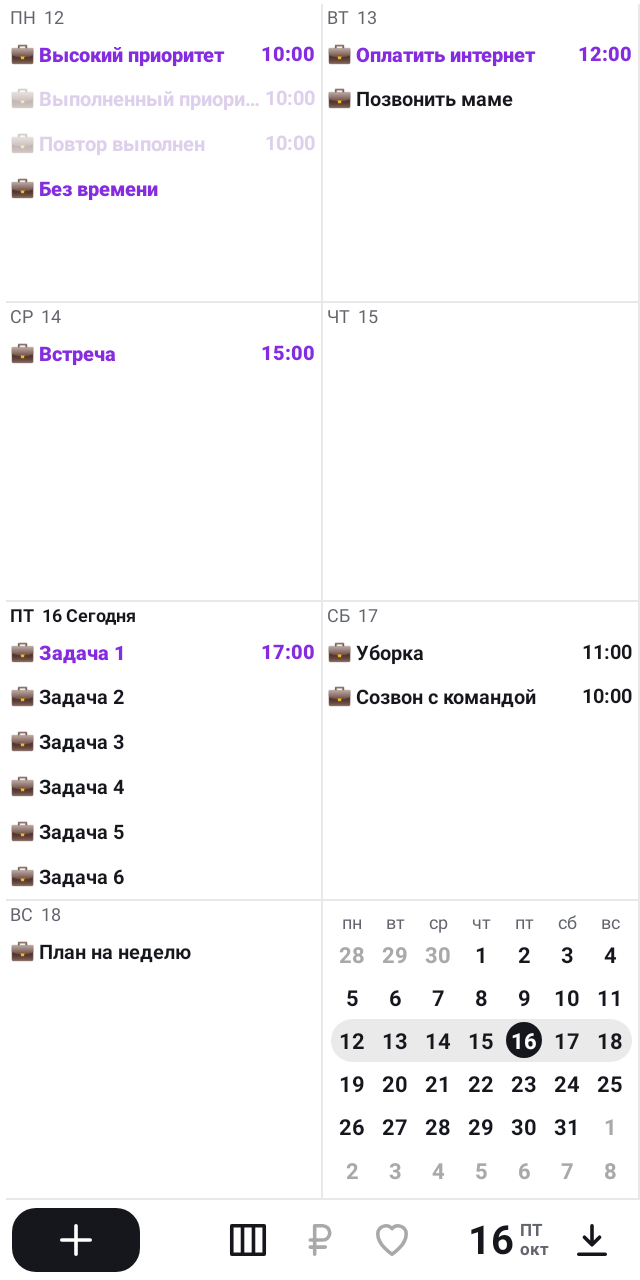
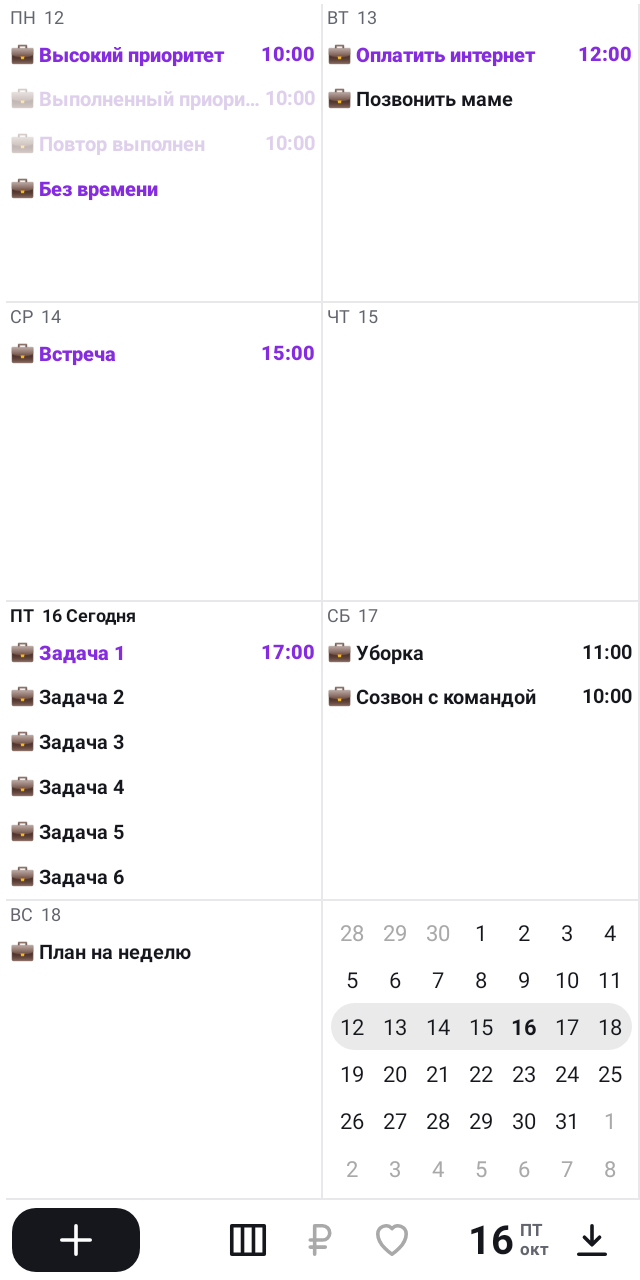
test: verify widget week picker and refresh previews (#284)

diff --git a/app/src/test/java/com/prostovasei/simpletasks/widget/WidgetWeekTest.kt b/app/src/test/java/com/prostovasei/simpletasks/widget/WidgetWeekTest.kt
@@ -1,6 +1,9 @@
 package com.prostovasei.simpletasks.widget
 
 import android.appwidget.AppWidgetManager
+import android.graphics.Typeface
+import android.text.Spanned
+import android.text.style.StyleSpan
 import android.view.View
 import android.view.ViewGroup
 import android.widget.TextView
@@ -166,7 +169,53 @@ class WidgetWeekTest {
         assertEquals("28", last.findViewById<TextView>(WeekIds.CAL_ROWS.first().days.first()).text.toString())
         assertEquals("8", last.findViewById<TextView>(WeekIds.CAL_ROWS.last().days.last()).text.toString())
         // Воскресенье 1 ноября — в левой ячейке последней строки.
-        assertTrue(last.visibleTexts().contains("вс"))
+        assertEquals("ВС", last.findViewById<TextView>(WeekIds.LEFT.weekday).text.toString())
+    }
+
+    private fun TextView.isBold() = (text as? Spanned)?.getSpans(0, text.length, StyleSpan::class.java)
+        ?.any { it.style == Typeface.BOLD } == true
+
+    @Test
+    fun calendarBandAndBoldDateMoveIndependentlyOnReapply() {
+        val root = renderWidget(context, rich, size).applyLikeLauncher(context)
+        fun verify(selected: Int, bold: String) {
+            val calendar = root.findViewById<ViewGroup>(R.id.wc_root)
+            assertEquals(6, calendar.childCount)
+            val dates = calendar.descendants().filterIsInstance<TextView>().toList()
+            assertEquals(42, dates.size)
+            assertTrue(dates.all { it.text.toString().toIntOrNull() != null })
+            assertEquals(listOf(bold), dates.filter { it.isBold() }.map { it.text.toString() })
+            assertTrue(dates.all { it.background == null && it.typeface?.isBold != true })
+            assertTrue(dates.first().currentTextColor != dates.first { it.text.toString() == bold && it.isBold() }.currentTextColor)
+            val rows = WeekIds.CAL_ROWS.map { calendar.findViewById<View>(it.row) }
+            assertTrue(rows.all { it.hasOnClickListeners() })
+            assertEquals(listOf(rows[selected]), rows.filter { it.background != null })
+        }
+        verify(selected = 4, bold = "30")
+        val previousWeek = week(start = monday.minusWeeks(1)) { emptyList() }
+        renderWidget(context, previousWeek, size).reapply(context, root)
+        verify(selected = 3, bold = "30")
+        val nextDay = today.plusDays(1)
+        val movedToday = previousWeek.copy(today = nextDay, week = previousWeek.week!!.copy(today = nextDay))
+        renderWidget(context, movedToday, size).reapply(context, root)
+        verify(selected = 3, bold = "31")
+    }
+
+    @Test
+    @Config(fontScale = 1.3f)
+    fun calendarDatesFitAtLargerFont() {
+        for (width in listOf(320f, 392f)) {
+            val root = renderWidget(context, rich, DpSize(width.dp, 640.dp)).applyLikeLauncher(context)
+            root.measure(View.MeasureSpec.makeMeasureSpec(px(width), View.MeasureSpec.EXACTLY),
+                View.MeasureSpec.makeMeasureSpec(px(640f), View.MeasureSpec.EXACTLY))
+            root.layout(0, 0, px(width), px(640f))
+            val calendar = root.findViewById<ViewGroup>(R.id.wc_root)
+            val dates = calendar.descendants().filterIsInstance<TextView>().toList()
+            assertEquals(42, dates.size)
+            assertTrue("Даты помещаются при ширине $width dp", dates.all { date ->
+                date.lineCount == 1 && date.layout.getLineEnd(0) == date.text.length && date.layout.height <= date.height
+            })
+        }
     }
 
     /**
@@ -202,8 +251,6 @@ class WidgetWeekTest {
     /** Проверка PM (0.46.0): сегодня — без кружка, день недели и число жирные; у остальных дней жирного нет. */
     @Test
     fun todayIsBoldWithoutACircle() {
-        fun TextView.isBold() = (text as? android.text.Spanned)?.getSpans(0, text.length, android.text.style.StyleSpan::class.java)
-            ?.any { it.style == android.graphics.Typeface.BOLD } == true
         val friday = list().rows()[2] // пятница 30 октября — сегодня
         val number = friday.findViewById<TextView>(WeekIds.LEFT.number)
         assertTrue(friday.findViewById<TextView>(WeekIds.LEFT.weekday).isBold())

diff --git a/app/src/test/java/com/prostovasei/simpletasks/widget/WidgetRendererTest.kt b/app/src/test/java/com/prostovasei/simpletasks/widget/WidgetRendererTest.kt
@@ -70,7 +70,9 @@ class WidgetRendererTest {
     fun financeModuleIsIndependentAndReturningKeepsTaskView() = runBlocking {
         val one = manager.createWidget(TasksWidgetReceiver::class.java, androidx.glance.appwidget.R.layout.glance_default_loading_layout)
         val two = manager.createWidget(TasksWidgetReceiver::class.java, androidx.glance.appwidget.R.layout.glance_default_loading_layout)
-        WidgetSelection.set(context, one, WidgetFilter.Inbox)
+        // Дождаться первой отрисовки, которая сохраняет исходный раздел нового виджета.
+        WidgetRenderer.render(context, one, "тест")
+        WidgetActionReceiver.handle(context, WidgetActions.switch(context, one, WidgetFilter.Inbox))
         WidgetActionReceiver.handle(context, WidgetActions.module(context, one, true))
         assertTrue(WidgetSelection.finance(context, one))
         assertTrue(!WidgetSelection.finance(context, two))

diff --git a/design/system/ds_more.py b/design/system/ds_more.py
@@ -917,9 +917,22 @@ def week_cell(wd, num, tasks, today=False, hidden=0, h=190, widget=False):
 
 def week_calendar(h=190, widget=False):
     """Мини-календарь (0.46.0): без строки месяца и стрелок — месяц листается выбором недели с днями соседнего месяца.
-    В виджете (итерация 48): даты 11, кружок «сегодня» 18."""
-    fs, today_d = (11, 18) if widget else (12, 22)
+    В виджете (итерация 48): даты 11, сегодня жирным (#284)."""
+    fs, today_d = 12, 22
     weeks = [[28, 29, 30, 1, 2, 3, 4], [5, 6, 7, 8, 9, 10, 11], [12, 13, 14, 15, 16, 17, 18], [19, 20, 21, 22, 23, 24, 25], [26, 27, 28, 29, 30, 31, 1], [2, 3, 4, 5, 6, 7, 8]]
+    if widget:
+        rows = []
+        for i, week in enumerate(weeks):
+            dates = []
+            for j, day in enumerate(week):
+                current = i == 4 and day == 30
+                adjacent = (i == 0 and j < 3) or i == 5 or (i == 4 and j == 6)
+                color = 'var(--inactive)' if adjacent and not current else 'var(--text-primary)'
+                dates.append(f'<span style="flex:1;text-align:center;font-size:11px;font-weight:{700 if current else 400};color:{color}">{day}</span>')
+            band = 'background:var(--accent-soft);border-radius:12px;' if i == 4 else ''
+            rows.append(f'<div style="flex:1;display:flex;align-items:center;{band}">{"".join(dates)}</div>')
+        return (f'<div style="flex:1;min-width:0;height:{h}px;box-sizing:border-box;padding:4px;border-bottom:1px solid var(--divider);display:flex;flex-direction:column">'
+                f'{"".join(rows)}</div>')
     rows = ''
     for i, w in enumerate(weeks):
         band = 'background:var(--accent-soft);border-radius:12px;' if i == 4 else ''
@@ -1143,7 +1156,7 @@ README_MORE = {
                '''Фон `background`, радиус `radius-xl`. Список по дням: подпись дня (красная у прошедшего), строки шкалы как в `TimelineRow`, у «Сегодня» линия прогресса. Отметка «сейчас»: чёрное время слева, точка на линии и линия до края (`size-widget-now-row` 14).
 Внизу нижняя строка (`WidgetBar`; 0.57 — «+» слева, блок вкладок по центру, дата справа, без линии); справа у подписи каждого дня число задач (у «Сегодня» вместо него прогресс), `text-secondary` 12. В виджете нет градиентов и размытия: фон и скругления — готовыми картинками. Цвета те же, что в приложении: Glance сам выбирает светлую или тёмную тему.
 Объём (итерация 42): во «Всех» — просроченные, сегодня и ещё 13 дней (с повторами); во «Входящих» и списках — все задачи; всего не больше 150 строк ленты. Строки «Ещё N» нет.
-Вид «Неделя» (итерация 45, третья вкладка переключателя; на Android 10–11 вместо неё «Все»): четыре строки одинаковой высоты (0.46.0: не лента, а вертикальная раскладка с долями — строки делят настоящую высоту виджета над нижней строкой, сколько бы ни сообщил рабочий стол) — Пн–Вт, Ср–Чт, Пт–Сб, Вс и мини-календарь; нижняя строка ничего не закрывает. Ячейка и мини-календарь — как в приложении (`WeekView`): строка не ниже `size-widget-week-task` (18; строки делят высоту ячейки поровну, обычно ~20) с промежутком `size-widget-week-task-gap` (2), фон по приоритету (`widget_week_plaque_*`), кружок `size-widget-week-check` (13), справа эмодзи списка и время (итерация 48); строка даты по высоте текста, не ниже `size-widget-week-header` (12; 9 sp капсом — «ПТ 30», `text-secondary` обычным начертанием; сегодня — без кружка, жирные `text-primary`); календарь: цифры 11 sp, день `size-widget-week-cal-day` 18, без строки месяца и стрелок. Строк в ячейке по высоте (до 6, на телефоне обычно 6), остальное «+N». Нажатия: кружок — «выполнено»/«вернуть», строка — открыть задачу, строка даты — полный день в приложении, строка календаря — неделя (и её месяц); выбор недели и месяца у каждого виджета свой. Разметка `widget_week_*`/`widget_row_week*` генерируется `design/tools/gen_widget_week.py`.
+Вид «Неделя» (итерация 45, третья вкладка переключателя; на Android 10–11 вместо неё «Все»): четыре строки одинаковой высоты (0.46.0: не лента, а вертикальная раскладка с долями — строки делят настоящую высоту виджета над нижней строкой, сколько бы ни сообщил рабочий стол) — Пн–Вт, Ср–Чт, Пт–Сб, Вс и мини-календарь; нижняя строка ничего не закрывает. Ячейка и мини-календарь — как в приложении (`WeekView`): строка не ниже `size-widget-week-task` (18; строки делят высоту ячейки поровну, обычно ~20) с промежутком `size-widget-week-task-gap` (2), фон по приоритету (`widget_week_plaque_*`), кружок `size-widget-week-check` (13), справа эмодзи списка и время (итерация 48); строка даты по высоте текста, не ниже `size-widget-week-header` (12; 9 sp капсом — «ПТ 30», `text-secondary` обычным начертанием; сегодня — без кружка, жирные `text-primary`); мини-календарь (#284): цифры 11 sp обычным начертанием, сегодня жирным; выбранная неделя — светлая полоса; шесть строк без подписей дней недели. Строк в ячейке по высоте (до 6, на телефоне обычно 6), остальное «+N». Нажатия: кружок — «выполнено»/«вернуть», строка — открыть задачу, строка даты — полный день в приложении, строка календаря — неделя (и её месяц); выбор недели и месяца у каждого виджета свой. Разметка `widget_week_*`/`widget_row_week*` генерируется `design/tools/gen_widget_week.py`.
 Устройство (итерация 42): на Android 12+ фон и лента — обычные элементы Android прямо в корне виджета (`widget_root`), каждая строка — своя разметка `widget_row_*` (задача, период, у выполненных — `*_done`, подпись дня, «Просрочено», «сейчас», хвост) ~1 КБ; нижняя строка — Glance поверх ленты, фоны плиток нижней строки — картинки со скруглением (`widget_bar_add`, `widget_bar_tile`; 0.57). Размеры и цвета строк — копия токенов в `res/values*/widget_rows.xml` (проверяет тест). Строка всегда задаёт весь свой вид: Android перекрашивает показанные строки другой задачи. Нажатия строк: кружок — «выполнено»/«вернуть», плашка — открыть задачу. Android 10–11 — лента Glance без прокрутки.'''),
     'ScreenAll': ('Экран «Предстоящее» (до 0.55 — «Все»).', 'Итерация 55: сверху заголовок «Предстоящее» (`ScreenTitle`), экран — на левом месте нижней панели. Лента по дням на `background`: подпись дня, шкала со строками `TimelineRow`, отметка «сейчас» у сегодняшнего дня; внизу нижняя панель. Пустая лента — `EmptyTasks`. Окно задачи открывается поверх.'),
     'ScreenInbox': ('Экран «Входящие» (0.52 — только неразобранное).', 'Итерация 52 (решение PM, по справке SingularityApp): «Входящие» — задачи без даты и без списка. Поставили дату — задача уходит в «Без списка» (`ScreenNoList`), выбрали список — в «Когда-нибудь» (`ScreenSomeday`), убрали дату у задачи без списка — возвращается. Под заголовком подсказка `body-small` `text-secondary`: «Здесь — то, что ещё не разобрано…». Плоский список (`TimelineRow`), колонка времени пустая, эмодзи списка нет. Пусто: «Всё разобрано». Открывается строкой «Входящие» на «Списках» (0.55); число неразобранных — там и на вкладке «Списки» (`BottomBar`). «+» — задача без даты и без списка. Вкладка «Входящие» в виджете — по той же логике.'),

diff --git a/design/system/build_design_system.py b/design/system/build_design_system.py
@@ -48,7 +48,8 @@ LIST_NAMES = ['red', 'orange', 'yellow', 'green', 'teal', 'blue', 'purple', 'pin
 
 def consts(obj):
     body = dim_src.split(f'object {obj} {{')[1].split('\n}\n')[0]
-    return {m[1]: int(m[2]) for m in re.finditer(r'const val (\w+) = (\d+)', body)}
+    return {m[1]: float(m[2]) if '.' in m[2] else int(m[2])
+            for m in re.finditer(r'const val (\w+) = (\d+(?:\.\d+)?)', body)}
 
 
 SPACING, RADIUS, SIZE = consts('SpacingTokens'), consts('RadiusTokens'), consts('SizeTokens')
@@ -152,8 +153,8 @@ SIZE_PICK = {
     'WIDGET_TIME': ('widget-time', 'Колонка времени слева.'), 'WIDGET_RAIL': ('widget-rail', 'Колонка линии шкалы с кружком.'), 'WIDGET_NODE': ('widget-node', 'Кружок приоритета на шкале.'),
     'WIDGET_BAR': ('widget-bar', 'Нижняя строка виджета.'), 'WIDGET_TAIL': ('widget-tail', 'Место под нижней строкой в конце ленты виджета.'),
     'WIDGET_ADD_W': ('widget-add-w', 'Плитки «+» и даты в нижней строке виджета: ширина (0.57: одинаковая).'), 'WIDGET_ADD_H': ('widget-add-h', 'Плитки нижней строки виджета («+», блок вкладок, дата): высота.'),
-    'WIDGET_TAB_CELL': ('widget-tab-cell', 'Место значка в белом блоке вкладок виджета (0.57).'), 'WIDGET_TAB_BLOCK_PAD': ('widget-tab-block-pad', 'Поля по бокам внутри блока вкладок (0.57).'),
-    'WIDGET_DATE_DAY_SP': ('widget-date-day-sp', 'Число в плитке даты виджета, sp (0.57).'), 'WIDGET_DATE_SMALL_SP': ('widget-date-small-sp', '«ВТ» и «ноя» в плитке даты, sp (0.57).'),
+    'WIDGET_TAB_CELL': ('widget-tab-cell', 'Место значка в белом блоке вкладок виджета (0.57).'),
+    'WIDGET_DATE_SMALL_SP': ('widget-date-small-sp', 'День недели и месяц в нижней панели виджета, sp.'),
     'WIDGET_DATE_GAP': ('widget-date-gap', 'Между числом и столбиком «ВТ / ноя» (0.57).'),
     'SNACKBAR_MIN_HEIGHT': ('snackbar-min-height', 'Подсказка «Отмена»: наименьшая высота.'), 'SNACKBAR_ICON': ('snackbar-icon', 'Значок слева в подсказке «Отмена».'),
     'RIBBON_BUTTON': ('ribbon-button', 'Режим выбора: наименьшая ширина кнопки ленты действий.'), 'RIBBON_BUTTON_HEIGHT': ('ribbon-button-height', 'Режим выбора: высота кнопки ленты действий.'),
@@ -738,10 +739,13 @@ def main():
     import ds_more
     previews.update(ds_more.PREVIEWS)
     COMP_README.update(ds_more.README_MORE)
-    COMP_README['WidgetBar'] = ('Нижняя строка виджета (0.57): «+» слева, блок вкладок по центру, дата справа.',
-                                '''Итерация 57 (T-128, решение PM 10.11.2026, макет iteration57.py, доска «Итог 2»): строка высотой `size-widget-bar` (40), фон `background`, без линии сверху, поля по бокам 6. Три плитки высотой `size-widget-add-h` (32), радиус `radius-lg`:
-слева «+» — `accent`, значок 22 `on-accent`, ширина `size-widget-add-w` (64); по центру один белый блок (`surface`, поля `size-widget-tab-block-pad`) со значками «Все» (`ic_widget_all`), «Входящие» (`ic_widget_inbox`), «Неделя» (`ic_tab_week`) — место `size-widget-tab-cell` (44), значок 22: выбранный вид `accent`, остальные `inactive`, без подложек; справа белая плитка даты той же ширины, что «+»: число `size-widget-date-day-sp` (18 sp Bold), рядом столбиком «ВТ» (9 sp Bold) и «ноя» (9 sp `text-secondary`). Блок вкладок ровно по центру: по бокам от него — пустое место поровну.
-Нажатия: «+» — новая задача; значок — вид; дата — назад к сегодня («Неделя» — текущая неделя и месяц календарика, «Все» — лента к «Сегодня», «Входящие» — в начало); всё свободное место строки — открыть приложение (галочки больше нет). Фоны плиток — картинки со скруглением (`widget_bar_add`, `widget_bar_tile`).''')
+    COMP_README['WidgetBar'] = (
+        'Нижняя панель виджета: «+» слева, вкладки по центру, дата и обновление справа.',
+        'Сплошная панель (#282): вкладки с шагом `size-widget-tab-cell` по центру, '
+        'ряд высотой `size-widget-bar`. Оба свободных промежутка открывают приложение. '
+        'Высота числа даты совпадает с двумя строками подписи. '
+        'На компактном размере видны «+» и три вкладки.',
+    )
     groups = {}
     for name, fn in previews.items():
         html = fn()

diff --git a/docs/HANDOFF.md b/docs/HANDOFF.md
@@ -99,4 +99,4 @@ Codex, ветка `codex/widget-bar-consistency` от `main` 50e5c4c. [Issue #28
 
 ## #284 — мини-календарь выбора недели в виджете
 
-Codex, ветка `codex/widget-week-picker-prototypes` от `main` a7536a6. [Issue #284](https://github.com/prostovasei/simpe-tasks-app/issues/284) · [Три прототипа](../design/drafts/widget-week-picker/variants.png). В мини-календаре обычные даты обычным шрифтом, сегодня жирным. Убраны круг и строка дней недели. Варианты выделения выбранной строки — заливка, рамка и метка слева. PM выбрал вариант 1 «Светлая полоса». [Утверждённый макет и ТЗ](../design/approved/284/requirements.md). Этап «Код» завершён в ветке, версия 0.79.6. Этапы «Проверка» и «Выпуск» по отдельным командам PM.
+Codex, ветка `codex/widget-week-picker-prototypes` от `main` a7536a6. [Issue #284](https://github.com/prostovasei/simpe-tasks-app/issues/284) · [Три прототипа](../design/drafts/widget-week-picker/variants.png). В мини-календаре обычные даты обычным шрифтом, сегодня жирным. Убраны круг и строка дней недели. Варианты выделения выбранной строки — заливка, рамка и метка слева. PM выбрал вариант 1 «Светлая полоса». [Утверждённый макет и ТЗ](../design/approved/284/requirements.md). Этап «Код» завершён в ветке, версия 0.79.6. Этап «Проверка» завершён. Локально 874 теста, 0 ошибок, 3 пропуска, снимок Android сверен с макетом. Этап «Выпуск» ожидает команды PM.

diff --git a/docs/TESTING.md b/docs/TESTING.md
@@ -123,3 +123,7 @@ BT280-1–3 ожидают результата PM.
 - WB282-1. На 320 и 392 dp сверить высоту значков, дату и неизменные позиции вкладок, в том числе для «Все», «Входящие» и «Неделя».
 - WB282-2. Нажать в центре и у границ обеих свободных полос. Проверить отдельные действия «+», вкладок, даты в «Задачах» и обновления. В «Финансах» и «Здоровье» дата информационная.
 - WB282-3. Проверить 180 и 240 dp и увеличенный системный шрифт. На минимуме работают четыре кнопки, на промежуточном размере работает левая полоса.
+
+### Мини-календарь «Светлая полоса» (#284)
+
+Локально прошли `assembleDebug check recordRoborazziDebug`: 874 теста, 0 ошибок, 3 пропуска. Проверены шесть строк по семь дат, смена полосы и жирной даты при повторной отрисовке, переход между месяцами и читаемость при 320 и 392 dp с увеличенным шрифтом. Просмотрены [снимок Android](../app/screenshots/widget_week_light.png) и [макет](../design/approved/284/calendar.png). На телефоне остаётся сверить выбор недели по всей ширине строки и поведение на рабочем столе PM.
